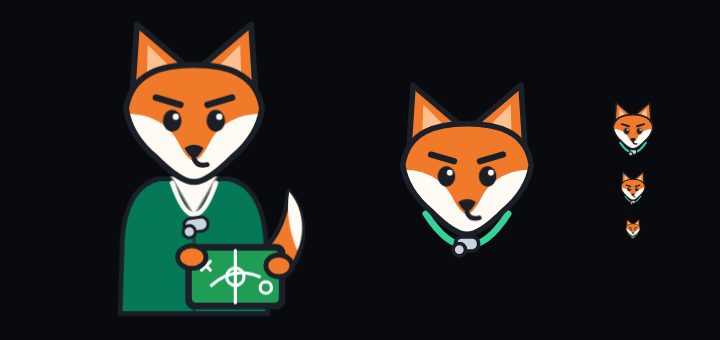
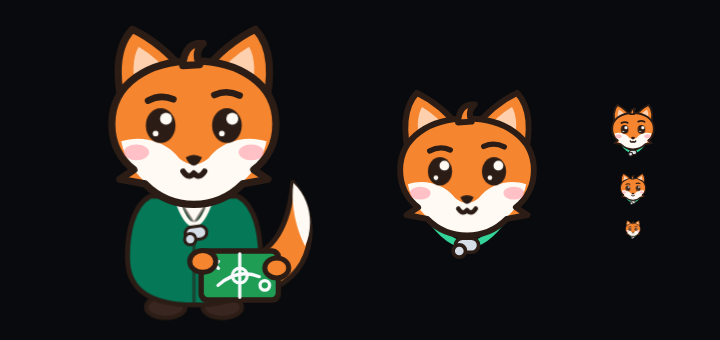
style(web): Míster más tierno, estilo chibi con ojos grandes y rubor

diff --git a/src/footy/web/static/mascot.js b/src/footy/web/static/mascot.js
@@ -2,36 +2,43 @@
    Dos variantes: cabeza (avatar, botón flotante, estados vacíos) y cuerpo entero (saludo del chat).
    Colores en clases .fx-* de styles.css para calzar con el tema; animaciones solo sin «reducir movimiento». */
 
-// Cordón y silbato van aparte: en el cuerpo entero el silbato cuelga sobre la chaqueta.
+// Estilo tierno: cabeza redonda con mejillas esponjosas, ojos grandes con brillo, rubor y sonrisa en «w».
+// La ceja derecha un poco más alta le da el toque pícaro de DT. Cordón y silbato van aparte (en el cuerpo
+// entero el silbato cuelga sobre la chaqueta).
 const FOX_CORD = `
-  <path class="fx-cord" d="M16 50 Q32 75 48 50"/>
-  <g class="fx-whistle"><rect class="fx-metal" x="27.5" y="59" width="9" height="5.5" rx="2.5"/><circle class="fx-metal" cx="29" cy="64" r="2.4"/></g>`;
+  <path class="fx-cord" d="M17 51 Q32 73 47 51"/>
+  <g class="fx-whistle"><rect class="fx-metal" x="27.5" y="59.5" width="9" height="5.5" rx="2.7"/><circle class="fx-metal" cx="29" cy="64.5" r="2.4"/></g>`;
 const FOX_HEAD = `
-  <g class="fx-ear fx-ear-l"><path class="fx-fur fx-line" d="M9 31 L11 0 L31 17 Z"/><path class="fx-inner" d="M14.5 24.5 L15 7.5 L25.5 18 Z"/></g>
-  <g class="fx-ear fx-ear-r"><path class="fx-fur fx-line" d="M55 31 L53 0 L33 17 Z"/><path class="fx-inner" d="M49.5 24.5 L49 7.5 L38.5 18 Z"/></g>
-  <path class="fx-fur" d="M7 31 C9 18 20 15 32 15 C44 15 55 18 57 31 C56 38 52 44 46 49 C41 54 36 58 32 58 C28 58 23 54 18 49 C12 44 8 38 7 31 Z"/>
-  <path class="fx-white" d="M8 33 C15 33 22 36 26 43 C28 47 30 50 32 50 C34 50 36 47 38 43 C42 36 49 33 56 33 C54 40 50 45 46 49 C41 54 36 58 32 58 C28 58 23 54 18 49 C14 45 10 40 8 33 Z"/>
-  <path class="fx-line" fill="none" d="M7 31 C9 18 20 15 32 15 C44 15 55 18 57 31 C56 38 52 44 46 49 C41 54 36 58 32 58 C28 58 23 54 18 49 C12 44 8 38 7 31 Z"/>
-  <path class="fx-brow" d="M18 27 L27 29.6 M46 27 L37 29.6"/>
-  <g class="fx-eyes"><ellipse class="fx-ink" cx="24" cy="35.5" rx="3.4" ry="4"/><ellipse class="fx-ink" cx="40" cy="35.5" rx="3.4" ry="4"/>
-    <circle class="fx-white" cx="25.3" cy="34" r="1.15"/><circle class="fx-white" cx="41.3" cy="34" r="1.15"/></g>
-  <path class="fx-ink" d="M28.5 45.5 Q32 43 35.5 45.5 Q33.6 49.2 32 49.2 Q30.4 49.2 28.5 45.5 Z"/>
-  <path class="fx-smile" d="M32 49.5 Q33.2 52.6 36.8 51.6"/>`;
+  <g class="fx-ear fx-ear-l"><path class="fx-fur fx-line" d="M10 30 Q5 11 12.5 3 Q22 7.5 30 17.5 Z"/><path class="fx-inner" d="M14 25 Q11.5 13.5 14.5 8.5 Q20.5 12 25 18 Z"/></g>
+  <g class="fx-ear fx-ear-r"><path class="fx-fur fx-line" d="M54 30 Q59 11 51.5 3 Q42 7.5 34 17.5 Z"/><path class="fx-inner" d="M50 25 Q52.5 13.5 49.5 8.5 Q43.5 12 39 18 Z"/></g>
+  <path class="fx-fur" d="FACE"/>
+  <path class="fx-white" d="M9 38.5 C15 36.5 23 38 27.5 44 Q32 47.5 36.5 44 C41 38 49 36.5 55 38.5 C54 44.5 49.5 50.5 44 54 C40.5 57 36.5 58.5 32 58.5 C27.5 58.5 23.5 57 20 54 C14.5 50.5 10 44.5 9 38.5 Z"/>
+  <path class="fx-line" fill="none" d="FACE"/>
+  <path class="fx-fur fx-line" d="M28.5 14.5 Q29 7 35 7.5 Q32 10 33.8 14.2 Z"/>
+  <ellipse class="fx-blush" cx="13.8" cy="42" rx="4" ry="2.5"/><ellipse class="fx-blush" cx="50.2" cy="42" rx="4" ry="2.5"/>
+  <path class="fx-brow" d="M17.5 25.6 Q21.5 23.4 25.5 25.2 M38.5 23.8 Q42.5 22 46.5 24"/>
+  <g class="fx-eyes"><ellipse class="fx-ink" cx="21.5" cy="33.5" rx="4.7" ry="5.5"/><ellipse class="fx-ink" cx="42.5" cy="33.5" rx="4.7" ry="5.5"/>
+    <circle class="fx-white" cx="23.2" cy="31.3" r="1.9"/><circle class="fx-white" cx="44.2" cy="31.3" r="1.9"/>
+    <circle class="fx-white" cx="19.9" cy="36" r=".9"/><circle class="fx-white" cx="40.9" cy="36" r=".9"/></g>
+  <path class="fx-ink" d="M29.4 43.6 Q32 42 34.6 43.6 Q33.4 46.2 32 46.2 Q30.6 46.2 29.4 43.6 Z"/>
+  <path class="fx-smile" d="M28.6 48 Q30.3 50.6 32 48.6 Q33.7 50.6 35.4 48"/>`.replaceAll("FACE", "M6 33 C6 20 18 13 32 13 C46 13 58 20 58 33 C58 39 55.5 44 51 47.5 L55.5 50.5 L47.5 52 C43.5 56 38 58.5 32 58.5 C26 58.5 20.5 56 16.5 52 L8.5 50.5 L13 47.5 C8.5 44 6 39 6 33 Z");
 
+// Cuerpo chibi: cabeza grande sobre un cuerpo pequeño y redondo, patitas, cola esponjosa y pizarra táctica.
 const FOX_BODY = `
-  <path class="fx-tail fx-fur fx-line" d="M86 122 C110 118 120 92 106 74 C104 92 96 104 80 108 Z"/>
-  <path class="fx-tail fx-white" d="M106 74 C113 82 113 94 109.5 101 C106 93 104.5 83 106 74 Z"/>
-  <path class="fx-jacket fx-line" d="M46 68 C36 70 30 80 29 96 L28 130 L96 130 L95 96 C94 80 88 70 78 68 Z"/>
-  <path class="fx-white" d="M51 67 L62 86 L73 67 Z"/>
-  <path class="fx-seam" d="M51 67 L62 86 L73 67 M62 86 L62 130"/>
-  <path class="fx-cord" d="M52 70 Q62 99 72 70"/>
-  <g class="fx-whistle fx-whistle-body"><rect class="fx-metal" x="57" y="86" width="11" height="6.5" rx="3"/><circle class="fx-metal" cx="59" cy="92" r="2.8"/></g>
-  <g class="fx-board"><rect class="fx-ink" x="58" y="98" width="46" height="30" rx="4"/><rect class="fx-pitch" x="61" y="101" width="40" height="24" rx="2"/>
-    <path class="fx-chalk" d="M81 101 V125 M65.5 106 l4 4 m0 -4 l-4 4 M70 117 Q80 108 92 113"/><circle class="fx-chalk" cx="81" cy="113" r="4"/>
-    <circle class="fx-chalk" cx="95" cy="118" r="2.6"/></g>
-  <ellipse class="fx-fur fx-line" cx="61" cy="104" rx="6.5" ry="5.2"/>
-  <ellipse class="fx-fur fx-line" cx="101" cy="108" rx="6" ry="5"/>
-  <g transform="translate(22 -3) scale(1.25)">${FOX_HEAD}</g>`;
+  <path class="fx-tail fx-fur fx-line" d="M86 121 C114 120 124 92 108 70 C106 90 99 102 84 106 Z"/>
+  <path class="fx-tail fx-white" d="M108 70 C116.5 78 117 91 113 99 C109 91 106.5 80 108 70 Z"/>
+  <ellipse class="fx-paw" cx="49" cy="127" rx="9" ry="5"/><ellipse class="fx-paw" cx="75" cy="127" rx="9" ry="5"/>
+  <path class="fx-jacket fx-line" d="M42 76 C34 80 31 93 31.5 106 Q32.5 126 62 126 Q91.5 126 92.5 106 C93 93 90 80 82 76 Z"/>
+  <path class="fx-white" d="M53 75 L62 89 L71 75 Z"/>
+  <path class="fx-seam" d="M53 75 L62 89 L71 75 M62 89 L62 125"/>
+  <path class="fx-cord" d="M54 77 Q62 101 70 77"/>
+  <g class="fx-whistle fx-whistle-body"><rect class="fx-metal" x="57.5" y="90" width="10" height="6" rx="3"/><circle class="fx-metal" cx="59.5" cy="95.5" r="2.6"/></g>
+  <g class="fx-board"><rect class="fx-ink" x="64" y="100" width="38" height="25" rx="4"/><rect class="fx-pitch" x="66.5" y="102.5" width="33" height="20" rx="2"/>
+    <path class="fx-chalk" d="M83 102.5 V122.5 M70 106 l3.2 3.2 m0 -3.2 l-3.2 3.2 M73 117 Q82 109 92 113"/><circle class="fx-chalk" cx="83" cy="112.5" r="3.4"/>
+    <circle class="fx-chalk" cx="94.5" cy="117" r="2.2"/></g>
+  <ellipse class="fx-fur fx-line" cx="66" cy="106" rx="6" ry="5"/>
+  <ellipse class="fx-fur fx-line" cx="100" cy="109" rx="5.5" ry="4.6"/>
+  <g transform="translate(15.5 -5) scale(1.45)">${FOX_HEAD}</g>`;
 
 function misterFace(size = 32, extra = "") {
   return `<svg class="mister mister-face ${extra}" width="${size}" height="${size}" viewBox="1 -2 62 70" aria-hidden="true" focusable="false">${FOX_CORD}${FOX_HEAD}</svg>`;

diff --git a/src/footy/web/static/styles.css b/src/footy/web/static/styles.css
@@ -1641,18 +1641,20 @@ section.view > .trust-hidden { display: none; }
 
 /* ================= El Míster: mascota (zorro DT) ================= */
 .mister { display: block; overflow: visible; }
-.mister .fx-fur { fill: #f07a2a; }
-.mister .fx-inner { fill: #fdc08f; }
+.mister .fx-fur { fill: #f6852f; }
+.mister .fx-inner { fill: #ffd0ad; }
 .mister .fx-white { fill: #fffaf3; }
-.mister .fx-ink { fill: #1b1f27; }
-.mister .fx-line { stroke: #1b1f27; stroke-width: 2.2; stroke-linejoin: round; }
-.mister .fx-brow, .mister .fx-smile { fill: none; stroke: #1b1f27; stroke-width: 2.4; stroke-linecap: round; }
+.mister .fx-ink { fill: #2b1d16; }
+.mister .fx-blush { fill: #ff8fa0; opacity: .55; }
+.mister .fx-paw { fill: #3a2620; stroke: #2b1d16; stroke-width: 2; }
+.mister .fx-line { stroke: #2b1d16; stroke-width: 2.3; stroke-linejoin: round; stroke-linecap: round; }
+.mister .fx-brow, .mister .fx-smile { fill: none; stroke: #2b1d16; stroke-width: 2.1; stroke-linecap: round; stroke-linejoin: round; }
 .mister .fx-smile { stroke-width: 1.8; }
 .mister .fx-cord { fill: none; stroke: var(--accent); stroke-width: 2.6; stroke-linecap: round; }
 .mister-full .fx-cord { stroke: #fffaf3; stroke-width: 2.2; }
-.mister .fx-metal { fill: #cbd5e1; stroke: #1b1f27; stroke-width: 1.4; }
+.mister .fx-metal { fill: #d5dde7; stroke: #2b1d16; stroke-width: 1.4; }
 .mister .fx-jacket { fill: var(--accent-fill); }
-.mister .fx-seam { fill: none; stroke: #1b1f27; stroke-width: 1.6; stroke-linejoin: round; opacity: .55; }
+.mister .fx-seam { fill: none; stroke: #2b1d16; stroke-width: 1.6; stroke-linejoin: round; opacity: .55; }
 .mister .fx-pitch { fill: #1f9d55; }
 .mister .fx-chalk { fill: none; stroke: #f8fafc; stroke-width: 1.5; stroke-linecap: round; }
 .mister .fx-eyes, .mister .fx-ear, .mister .fx-whistle, .mister .fx-tail { transform-box: fill-box; }
